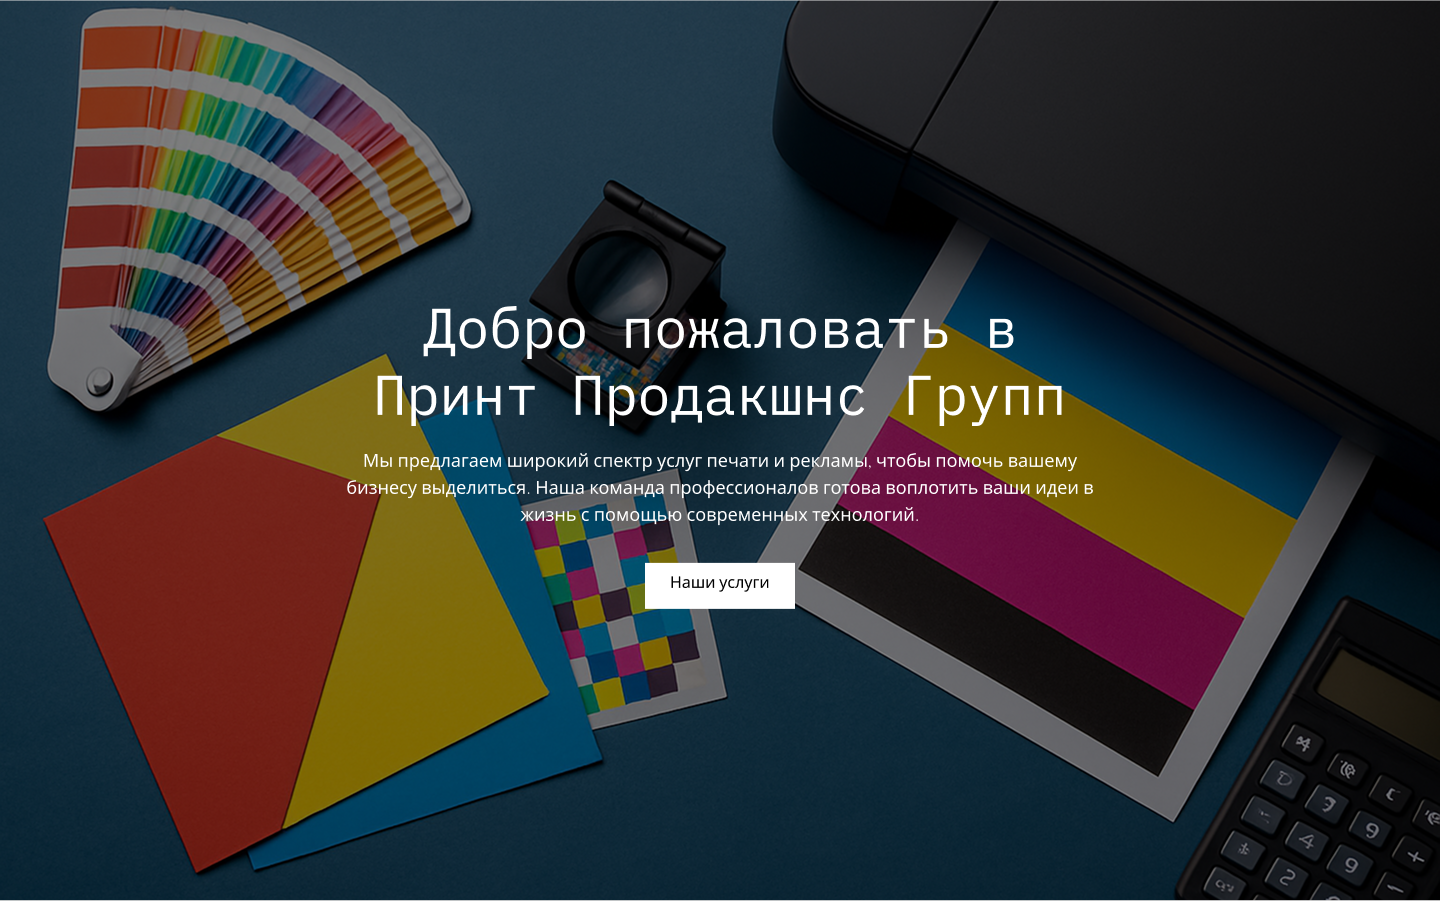
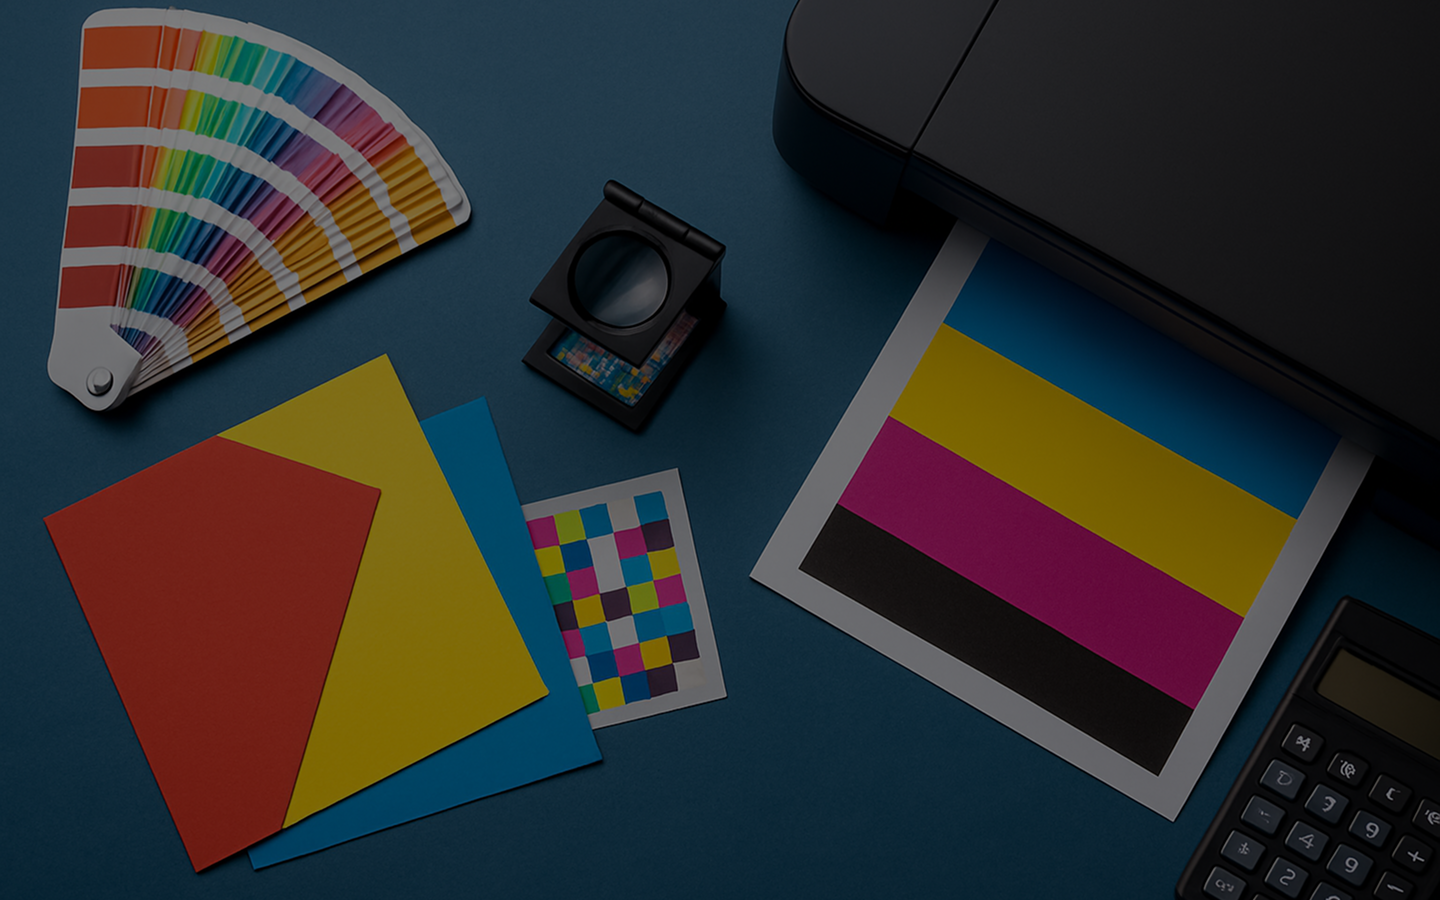
Фикс баннера на главной странице и добавления элемента партнеры и заказчики

diff --git a/src/components/sections/HeroBanner.module.scss b/src/components/sections/HeroBanner.module.scss
@@ -9,6 +9,8 @@
 }
 
 .container {
+  position: relative;
+  z-index: 2;
   display: flex;
   align-items: center;
   justify-content: center;
@@ -20,32 +22,83 @@
     display: flex;
     flex-direction: column;
     align-items: center;
+    margin-bottom: 150px;
 
   }
-}
 
-.content {
-  z-index: 2;
-}
-
-.title {
-  font-size: 3.5rem;
-  font-weight: 800;
-  margin-bottom: 1.5rem;
-  line-height: 1.2;
+  .title {
+    font-size: 3.5rem;
+    font-weight: 600;
+    margin-bottom: 1.5rem;
+    line-height: 1.2;
+    
+    @media (max-width: 768px) {
+      font-size: 2.5rem;
+    }
+  }
   
-  @media (max-width: 768px) {
-    font-size: 2.5rem;
+  .subtitle {
+    font-size: 1.2rem;
+    margin-bottom: 2rem;
+    opacity: 0.9;
+    line-height: 1.6;
   }
 }
+.partners{
+  display: flex;
+  flex-direction: column;
+  align-items: center;
+  justify-content: center;
+  position: absolute;
+  z-index: 2;
+  bottom: 16px;
+  left: 50%;
+  transform: translateX(-50%);
 
-.subtitle {
-  font-size: 1.2rem;
-  margin-bottom: 2rem;
-  opacity: 0.9;
-  line-height: 1.6;
+  .title {
+    position: relative;
+    bottom: -10px;
+    z-index: 1;
+    padding: 10px 40px;
+    background-color: white;
+    display: flex;
+    align-items: center;
+    justify-content: center;
+    border-radius: 4px;
+    box-shadow: 0 0 32px 0 rgba(0, 0, 0, 0.4);
+
+    h3 {
+      color: black;
+      text-align: center;
+      font-weight: 400;
+      font-size: 1.5rem;
+      margin: 0;
+      padding: 0;
+    }
+  }
+  .list {
+    display: flex;
+    flex-direction: row;
+    align-items: center;
+    justify-content: center;
+    position: relative;
+    z-index: 2;
+    gap: 2rem;
+    padding: 16px 32px;
+    border-radius: 4px;
+    background-color: white;
+    box-shadow: 0 0 32px 0 rgba(0, 0, 0, 0.4);
+    .partner {
+      display: flex;
+      align-items: center;
+      justify-content: center;
+      transition: all 0.3s ease;
+      &:hover {
+        transform: scale(1.2);
+      }
+    }
+  }
 }
-
 .actions {
   display: flex;
   gap: 1rem;
@@ -76,7 +129,7 @@
   display: flex;
   justify-content: center;
   align-items: center;
-  z-index: 2;
+  z-index: 1;
   position: absolute;
   top: 0;
   left: 0;

diff --git a/src/components/sections/HeroBanner.tsx b/src/components/sections/HeroBanner.tsx
@@ -20,7 +20,21 @@ const HeroBanner: React.FC = () => {
       <div className={styles.image}>
           {/* Здесь будет изображение */}
           <img src="images/mainBanner.png" alt="" />
+      </div>
+      <div className={styles.partners}>
+        <div className={styles.title}>
+          <h3>
+            Партнеры и заказчики
+          </h3>
         </div>
+        <div className={styles.list}>
+          {[...Array(9)].map((_, idx) => (
+            <div className={styles.partner} key={idx}>
+              <img src={`images/partners/partner_${idx + 1}.png`} alt="" />
+            </div>
+          ))}
+        </div>
+      </div>
     </section>
   );
 };
